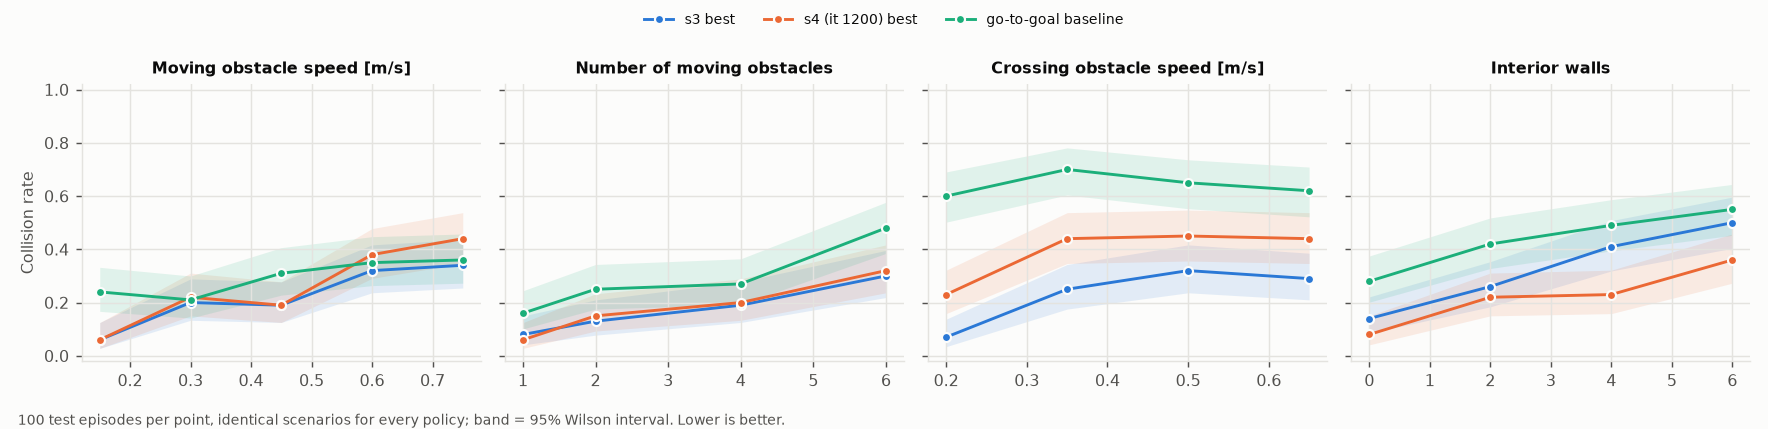
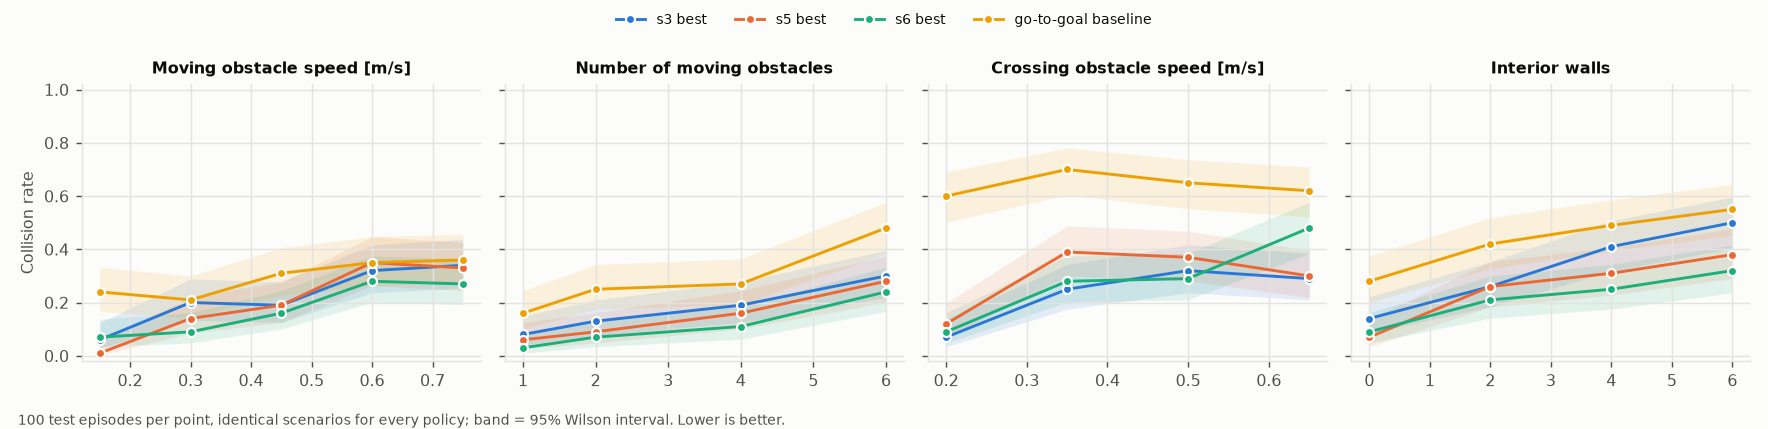
Robustness sweeps for s5 and s6, refreshed figures, drop benchmark.py
The s5 and s6 sweeps use the same fixed scenarios as the earlier s3 and go-to-goal sweep.
Those rows are merged into results/robust/s3_s5_s6_baseline, which plot_results now reads by default.
s6 is best or tied on almost every sweep. It is weak only against 0.65 m/s crossers (0.52).
scripts/benchmark.py was a one-off throughput check and is no longer needed.

Changed region(s): [[0.0311, 0.3333, 0.7466, 0.8182], [0.7466, 0.4242, 0.9955, 0.7879], [0.3422, 0.0303, 0.6533, 0.0606]]

diff --git a/scripts/plot_results.py b/scripts/plot_results.py
@@ -2,7 +2,7 @@
 
 Usage:
   python scripts/plot_results.py                       # everything it can find, into figures/
-  python scripts/plot_results.py --robust results/robust/s3_s4_baseline \\
+  python scripts/plot_results.py --robust results/robust/s3_s5_s6_baseline \\
       --evals s3_best_100 s5_it570 s6_best gotogoal_100
 
 Inputs it reads (all optional, figures are skipped when their input is missing):
@@ -214,7 +214,7 @@ def suite_outcomes(eval_names: list[str], out: Path) -> None:
 def main() -> None:
     ap = argparse.ArgumentParser()
     ap.add_argument("--runs", default=str(ROOT / "logs" / "navrl" / "curriculum"))
-    ap.add_argument("--robust", default=str(ROOT / "results" / "robust" / "s3_s4_baseline"))
+    ap.add_argument("--robust", default=str(ROOT / "results" / "robust" / "s3_s5_s6_baseline"))
     ap.add_argument("--evals", nargs="*", default=["s3_best_100", "s5_it570", "s6_best", "gotogoal_100"])
     ap.add_argument("--out", default=str(ROOT / "figures"))
     args = ap.parse_args()

diff --git a/README.md b/README.md
@@ -79,7 +79,6 @@ desktop session. On a headless machine use `demo.py --record out.mp4` instead.
 ```bash
 python scripts/validate_robot.py      # robot physics battery: speed tracking, rotation, curves, braking, wall impact
 PYTEST_DISABLE_PLUGIN_AUTOLOAD=1 python -m pytest -q -p no:cacheprovider tests/
-python scripts/benchmark.py           # optional: env steps/s and parallel-env scaling (no learning)
 ```
 
 **Expected:**
@@ -97,7 +96,7 @@ python scripts/benchmark.py           # optional: env steps/s and parallel-env s
 
 - **One iteration** = `NUM_ENVS × NUM_STEPS` env steps (one rollout) followed by one PPO update.
   The default is 4 envs × 1024 steps = **4096 steps per iteration**.
-- **4 parallel envs is the benchmarked sweet spot** on tested laptop:
+- **4 parallel envs was the fastest setting** on tested laptop:
   - 6 or 8 envs give only ~6% more throughput;
   - they use more of the 7 GB of RAM;
   - they make each iteration longer.
@@ -284,8 +283,8 @@ scenario (3 static + 3 movers at 0.3 m/s) and compares policies on identical sce
 intervals:
 
 ```bash
-python scripts/robust_eval.py --models logs/navrl/curriculum/s3/best_model.pt \
-                                       logs/navrl/curriculum/s4/best_model.pt --baseline
+python scripts/robust_eval.py --models logs/navrl/curriculum/s5/best_model.pt \
+                                       logs/navrl/curriculum/s6/best_model.pt --baseline
 python scripts/robust_eval.py --models logs/navrl/curriculum/s4/best_model.pt --episodes 30 --sweeps obs_speed robot_vmax
 ```
 
@@ -398,6 +397,7 @@ Stages 5 and 6 train on a mix of all scene types, so their curves sit between th
 ![training curves](figures/training_curves.png)
 
 **Collision rate vs difficulty.** One factor varied at a time, 100 test episodes per point, 95% intervals.
+All four policies see exactly the same scenarios (`results/robust/s3_s5_s6_baseline/`).
 
 ![collision vs difficulty](figures/difficulty_collisions.png)
 
@@ -624,6 +624,17 @@ During training the s6 collision rate looked flat (about 0.27). That is because 
 is harder (two of every seven episodes have a mover aimed at the robot); the fixed test suites above are
 the fair comparison.
 
+**Stage 6 robustness sweeps** (`results/robust/s3_s5_s6_baseline/`, same scenarios for s3, s5, s6 and go-to-goal,
+100 episodes per point, see the figures above):
+
+- **Best or tied on almost every sweep.** 8 static obstacles: 0.98 (s5 0.92, baseline 0.68).
+  6 movers: 0.76 (s5 0.72). Walls: 0.79 / 0.72 / 0.59 with 2 / 4 / 6 walls.
+- **Fast movers:** at 0.6-0.75 m/s s6 holds 0.72-0.73, where s3 and s5 drop to 0.65-0.68.
+- **LiDAR noise** up to 0.10 m std makes no difference (0.83-0.89). A slow robot (0.3 m/s top speed)
+  also copes better: 0.85 vs 0.79 for s5.
+- **Weak spot: very fast crossers.** At 0.65 m/s, just above the 0.2-0.6 m/s training range, s6 drops to
+  0.52 while s3 and s5 hold about 0.70. s6 drives faster, so it has less time to dodge an obstacle aimed at it.
+
 ## Project layout
 
 ### File tree
@@ -649,7 +660,6 @@ NAVRL/
 │   ├── robot.py                  # action mapping, accel limits, diff-drive kinematics, base servos
 │   └── viz.py                    # viewer overlays (rays, trail), trajectory plots
 ├── scripts/
-│   ├── benchmark.py              # env throughput / parallel-env scaling
 │   ├── demo.py                   # live MuJoCo viewer or MP4 recording
 │   ├── evaluate.py               # held-out test suites -> results/<name>/
 │   ├── train.py                  # training CLI (--task --num_envs --max_iterations --warm_start --resume)
@@ -702,7 +712,6 @@ scripts/evaluate.py       held-out evaluation + trajectory plots
 scripts/demo.py           live MuJoCo viewer / MP4 recording
 scripts/teleop.py         keyboard teleop in the live viewer
 scripts/validate_robot.py robot physics validation battery
-scripts/benchmark.py      env throughput benchmark
 tests/test_env.py         unit tests
 docs/DESIGN.md            full design document
 ```
